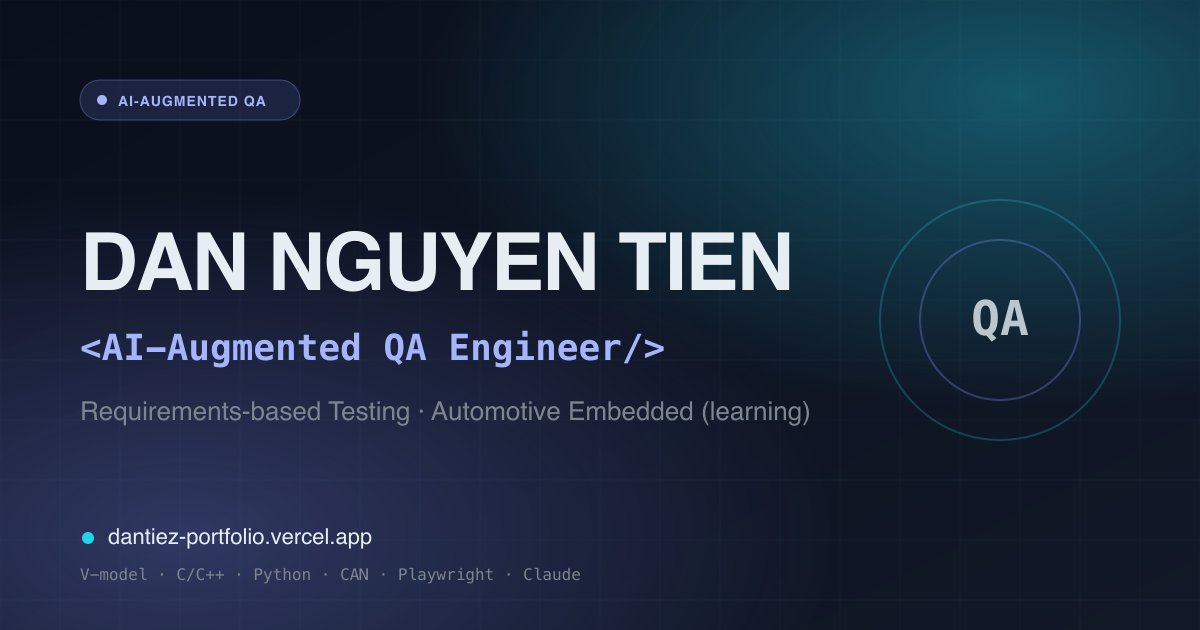
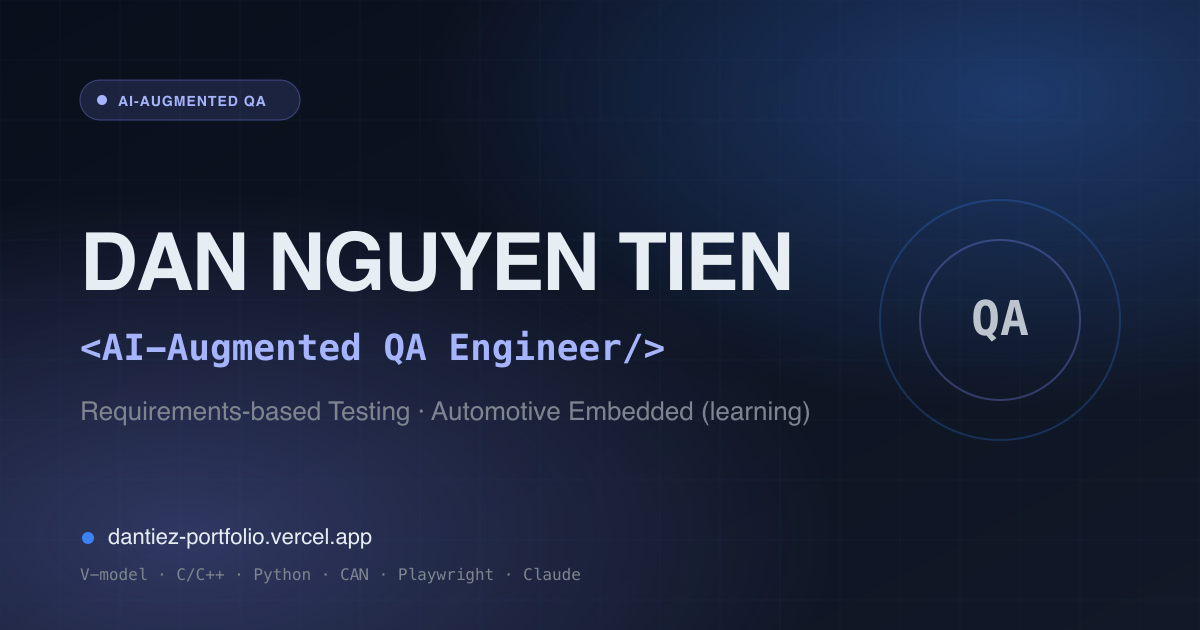
feat(brand): switch primary from cyan to electric blue (blue -> indigo)
- primary #3b82f6 dark / #2563eb light, white text on primary fills
- gradients, aurora, beam, orbit, V-line, stat cards in blue/indigo only
- regenerate favicon, apple icon and OG image

Changed region(s): [[0.7708, 0.0603, 0.925, 0.2413], [0.8017, 0.3016, 0.8633, 0.3317], [0.0617, 0.8444, 0.0925, 0.8746]]

diff --git a/index.css b/index.css
@@ -4,17 +4,17 @@
 @custom-variant dark (&:where(.dark, .dark *));
 
 @theme {
-  /* "Instrument Cluster" palette.
-   * Primary = dashboard cyan. Light mode uses a darker cyan for AA contrast
-   * on the warm-paper background; `.dark` below swaps in the bright variant.
+  /* "Electric Blue" palette: blue primary → indigo secondary.
+   * Light mode uses a deeper blue for AA contrast on the warm-paper
+   * background; `.dark` below swaps in the brighter variant.
    * `on-primary` is the text colour placed on top of a primary fill. */
-  --color-primary: #0891b2;
-  --color-primary-hover: #0e7490;
+  --color-primary: #2563eb;
+  --color-primary-hover: #1d4ed8;
   --color-on-primary: #ffffff;
 
   /* AI-signal accent — reserved for AI-Augmented sections, sparkle chips, hover */
-  /* Secondary accent (AI sections). Indigo sits next to cyan on the colour
-   * wheel, so cyan→indigo gradients stay harmonious. */
+  /* Secondary accent (AI sections). Indigo sits next to blue on the colour
+   * wheel, so blue→indigo gradients stay harmonious. */
   --color-accent-ai: #6366f1;
 
   /* Surfaces — GitHub-grade dark + warm-paper light */
@@ -59,11 +59,11 @@
   }
 }
 
-/* Dark-mode overrides for the primary accent (bright cyan on deep navy). */
+/* Dark-mode overrides for the primary accent (brighter blue on deep navy). */
 .dark {
-  --color-primary: #22d3ee;
-  --color-primary-hover: #67e8f9;
-  --color-on-primary: #0a0f1c;
+  --color-primary: #3b82f6;
+  --color-primary-hover: #60a5fa;
+  --color-on-primary: #ffffff;
   --color-accent-ai: #818cf8;
 }
 
@@ -104,7 +104,7 @@ h3 {
 .hero-halo {
   background-image: radial-gradient(
     circle at center,
-    rgba(34, 211, 238, 0.18),
+    rgba(59, 130, 246, 0.18),
     rgba(129, 140, 248, 0.08) 40%,
     transparent 70%
   );
@@ -114,8 +114,8 @@ h3 {
 .hero-pattern {
   background-color: transparent;
   background-image:
-    linear-gradient(rgba(34, 211, 238, 0.03) 1px, transparent 1px),
-    linear-gradient(90deg, rgba(34, 211, 238, 0.03) 1px, transparent 1px);
+    linear-gradient(rgba(59, 130, 246, 0.03) 1px, transparent 1px),
+    linear-gradient(90deg, rgba(59, 130, 246, 0.03) 1px, transparent 1px);
   background-size: 60px 60px;
 }
 
@@ -145,7 +145,7 @@ h3 {
 
 /* ------------------------------------------------------------------
  * COLOUR RULE (keep the page cohesive):
- *   decoration & interaction → cyan / sky / indigo only
+ *   decoration & interaction → blue / indigo only
  *   emerald / amber / slate  → status meaning only (MET / IN PROGRESS / PLANNED)
  * ------------------------------------------------------------------ */
 
@@ -221,8 +221,8 @@ h3 {
   background: conic-gradient(
     from var(--beam-angle),
     transparent 0deg,
-    #22d3ee 60deg,
-    #38bdf8 120deg,
+    #3b82f6 60deg,
+    #60a5fa 120deg,
     #818cf8 180deg,
     transparent 240deg
   );
@@ -236,7 +236,7 @@ h3 {
 
 /* Animated multi-stop gradient text (name, highlights) */
 .text-gradient-animated {
-  background-image: linear-gradient(90deg, #22d3ee, #38bdf8, #818cf8, #22d3ee);
+  background-image: linear-gradient(90deg, #3b82f6, #60a5fa, #818cf8, #3b82f6);
   background-size: 300% 100%;
   -webkit-background-clip: text;
   background-clip: text;
@@ -252,8 +252,8 @@ h3 {
 /* Engineering grid that fades toward the edges */
 .grid-fade {
   background-image:
-    linear-gradient(rgba(34, 211, 238, 0.06) 1px, transparent 1px),
-    linear-gradient(90deg, rgba(34, 211, 238, 0.06) 1px, transparent 1px);
+    linear-gradient(rgba(59, 130, 246, 0.06) 1px, transparent 1px),
+    linear-gradient(90deg, rgba(59, 130, 246, 0.06) 1px, transparent 1px);
   background-size: 40px 40px;
   mask-image: radial-gradient(ellipse at center, #000 30%, transparent 75%);
   -webkit-mask-image: radial-gradient(ellipse at center, #000 30%, transparent 75%);

diff --git a/components/ui/stat-card.tsx b/components/ui/stat-card.tsx
@@ -3,7 +3,7 @@ import type { LucideIcon } from 'lucide-react';
 import NumberTicker from './number-ticker';
 
 /** Brand-family accents only (see COLOUR RULE in index.css). */
-type StatAccent = 'cyan' | 'sky' | 'indigo';
+type StatAccent = 'blue' | 'indigo';
 
 interface StatCardProps {
   Icon: LucideIcon;
@@ -15,15 +15,14 @@ interface StatCardProps {
 }
 
 const ACCENTS: Record<StatAccent, { icon: string; glow: string; text: string }> = {
-  cyan: { icon: 'bg-cyan-500/10 text-cyan-600 dark:text-cyan-400', glow: 'group-hover:shadow-cyan-500/20 hover:border-cyan-500/50', text: 'from-cyan-600 to-sky-500 dark:from-cyan-300 dark:to-sky-400' },
-  sky: { icon: 'bg-sky-500/10 text-sky-600 dark:text-sky-400', glow: 'group-hover:shadow-sky-500/20 hover:border-sky-500/50', text: 'from-sky-600 to-indigo-500 dark:from-sky-300 dark:to-indigo-400' },
-  indigo: { icon: 'bg-indigo-500/10 text-indigo-600 dark:text-indigo-400', glow: 'group-hover:shadow-indigo-500/20 hover:border-indigo-500/50', text: 'from-indigo-600 to-cyan-500 dark:from-indigo-300 dark:to-cyan-400' },
+  blue: { icon: 'bg-blue-500/10 text-blue-600 dark:text-blue-400', glow: 'group-hover:shadow-blue-500/20 hover:border-blue-500/50', text: 'from-blue-600 to-indigo-500 dark:from-blue-400 dark:to-indigo-400' },
+  indigo: { icon: 'bg-indigo-500/10 text-indigo-600 dark:text-indigo-400', glow: 'group-hover:shadow-indigo-500/20 hover:border-indigo-500/50', text: 'from-indigo-600 to-blue-500 dark:from-indigo-400 dark:to-blue-400' },
 };
 
 /**
  * Numeric KPI card with colour accent, gradient number and count-up.
  */
-const StatCard: React.FC<StatCardProps> = ({ Icon, value, suffix, label, accent = 'cyan' }) => {
+const StatCard: React.FC<StatCardProps> = ({ Icon, value, suffix, label, accent = 'blue' }) => {
   const a = ACCENTS[accent];
   return (
     <div

diff --git a/components/Achievements.tsx b/components/Achievements.tsx
@@ -41,9 +41,9 @@ const Achievements: React.FC = () => {
       <section className="py-12 px-4 sm:px-8 lg:px-40 bg-background-light dark:bg-background-dark">
         <div className="mx-auto max-w-[960px]">
           <div className="grid grid-cols-1 sm:grid-cols-3 gap-6">
-            <StatCard Icon={Package} value={2} suffix="+" accent="cyan" label={a.stats.projects} />
-            <StatCard Icon={Bug} value={200} suffix="+" accent="sky" label={a.stats.bugs} />
-            <StatCard Icon={ClipboardList} value={500} suffix="+" accent="indigo" label={a.stats.testCases} />
+            <StatCard Icon={Package} value={2} suffix="+" accent="blue" label={a.stats.projects} />
+            <StatCard Icon={Bug} value={200} suffix="+" accent="indigo" label={a.stats.bugs} />
+            <StatCard Icon={ClipboardList} value={500} suffix="+" accent="blue" label={a.stats.testCases} />
           </div>
         </div>
       </section>

diff --git a/components/VModelRoadmap.tsx b/components/VModelRoadmap.tsx
@@ -71,12 +71,12 @@ const VModelRoadmap: React.FC = () => {
         >
           <defs>
             <linearGradient id="vmodel-left" x1="0" y1="0" x2="1" y2="1">
-              <stop offset="0%" stopColor="#22d3ee" />
+              <stop offset="0%" stopColor="#3b82f6" />
               <stop offset="100%" stopColor="#818cf8" />
             </linearGradient>
             <linearGradient id="vmodel-right" x1="0" y1="1" x2="1" y2="0">
               <stop offset="0%" stopColor="#818cf8" />
-              <stop offset="100%" stopColor="#22d3ee" />
+              <stop offset="100%" stopColor="#3b82f6" />
             </linearGradient>
           </defs>
           <path d="M 2 2 L 50 98" stroke="url(#vmodel-left)" strokeWidth="2" fill="none" vectorEffect="non-scaling-stroke" className="animate-dash-flow" opacity="0.9" />

diff --git a/components/Contact.tsx b/components/Contact.tsx
@@ -69,7 +69,7 @@ const Contact: React.FC = () => {
         className="absolute top-0 left-0 w-full h-full overflow-hidden -z-10 pointer-events-none"
       >
         <div className="absolute top-[-10%] right-[-5%] w-[500px] h-[500px] bg-primary/10 rounded-full blur-3xl opacity-50" />
-        <div className="absolute bottom-[-10%] left-[-5%] w-[400px] h-[400px] bg-cyan-500/10 rounded-full blur-3xl opacity-30" />
+        <div className="absolute bottom-[-10%] left-[-5%] w-[400px] h-[400px] bg-blue-500/10 rounded-full blur-3xl opacity-30" />
       </div>
 
       <div className="max-w-7xl mx-auto grid grid-cols-1 lg:grid-cols-2 gap-12 lg:gap-24 items-start">

diff --git a/components/hero-orbit-canvas.tsx b/components/hero-orbit-canvas.tsx
@@ -2,8 +2,8 @@ import React, { useCallback, useEffect, useMemo, useRef, useState } from 'react'
 import { Canvas, useFrame, type ThreeElements } from '@react-three/fiber';
 import * as THREE from 'three';
 
-// Brand accents from index.css — dashboard cyan → indigo secondary.
-const COLOR_PRIMARY = new THREE.Color('#22d3ee');
+// Brand accents from index.css — electric blue → indigo secondary.
+const COLOR_PRIMARY = new THREE.Color('#3b82f6');
 const COLOR_ACCENT = new THREE.Color('#818cf8');
 
 const PARTICLE_COUNT = 900;

diff --git a/components/Hero.tsx b/components/Hero.tsx
@@ -57,7 +57,7 @@ const Hero: React.FC = () => {
       />
       <div
         aria-hidden="true"
-        className="aurora-blob absolute top-1/3 left-1/2 w-72 h-72 bg-sky-500/10 rounded-full blur-3xl pointer-events-none [animation-delay:-12s]"
+        className="aurora-blob absolute top-1/3 left-1/2 w-72 h-72 bg-indigo-500/10 rounded-full blur-3xl pointer-events-none [animation-delay:-12s]"
       />
 
       <div className="max-w-7xl mx-auto px-4 sm:px-6 lg:px-8 w-full">
